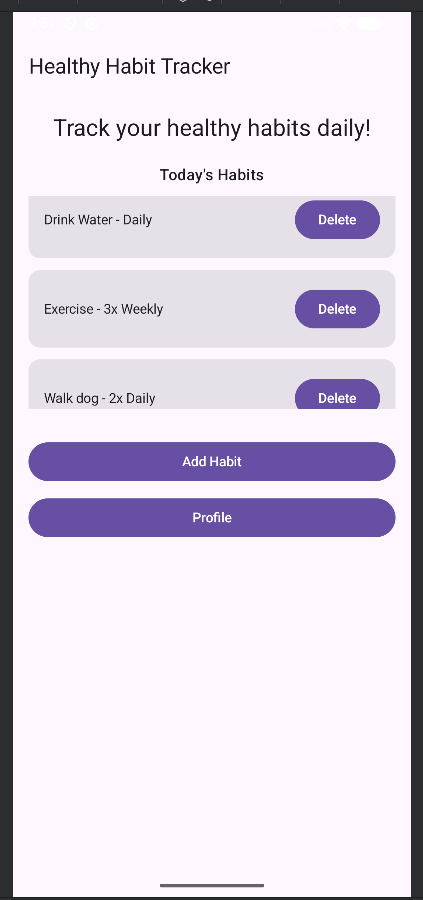
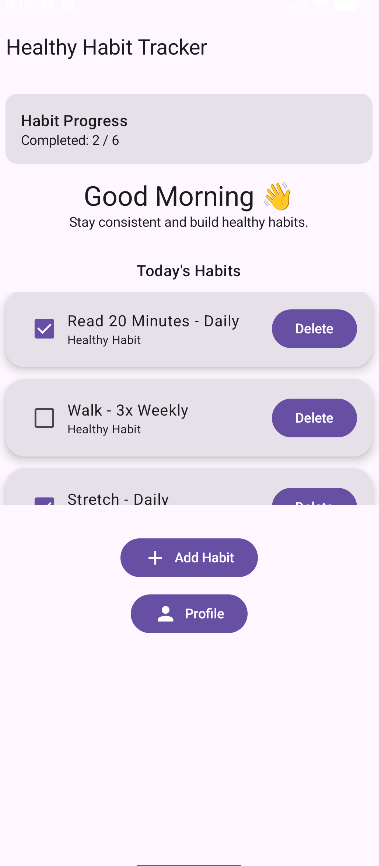
Cleaned up Code and Added featured Android application section to homepage

diff --git a/Projects.html b/Projects.html
@@ -3,12 +3,12 @@
 <head>
   <meta charset="UTF-8">
   <meta name="viewport" content="width=device-width, initial-scale=1.0">
-  <title>Claire Nicole | Gallery</title>
+  <title>Claire Nicole | Projects</title>
   <link rel="stylesheet" href="css/styles.css">
 </head>
 <body>
   <header>
-    <h1>Gallery</h1>
+    <h1>Projects</h1>
     <nav>
       <ul>
         <li><a href="index.html">Home</a></li>
@@ -20,7 +20,7 @@
 
   <main>
     <article>
-      <h2>Welcome to my Gallery!</h2>
+      <h2>Welcome to my Project Gallery!</h2>
       
       <section class="github-section">
 

diff --git a/index.html b/index.html
@@ -19,6 +19,25 @@
   </header>
 
   <main>
+    
+    <section class="featured-project">
+
+    <h2>Featured Project</h2>
+
+    <h3>Healthy Habit Tracker</h3>
+
+    <p>
+        A Kotlin Android application designed to help users
+        build healthy routines through habit tracking,
+        progress monitoring, and personalized goals.
+    </p>
+
+    <a href="Projects.html" class="hero-button">
+        View Project Details
+    </a>
+
+</section>
+
     <section class="hero">
 
     <h2>Software Development Portfolio</h2>

diff --git a/css/styles.css b/css/styles.css
@@ -205,3 +205,26 @@ aside {
     display: block;
     margin: 20px auto;
 }
+.resume {
+    background-color: white;
+    padding: 20px;
+    margin: 20px;
+    border-radius: 10px;
+}
+
+.resume-button {
+    display: inline-block;
+    padding: 10px 20px;
+    background-color: #388E3C;
+    color: white;
+    text-decoration: none;
+    border-radius: 5px;
+}
+.featured-project {
+    background: white;
+    padding: 25px;
+    margin: 20px;
+    border-radius: 12px;
+
+    box-shadow: 0px 2px 8px rgba(0,0,0,0.15);
+}

diff --git a/about.html b/about.html
@@ -85,6 +85,19 @@
   </main>
 
   <aside>
+    <section class="resume">
+
+    <h2>Resume</h2>
+
+    <p>
+        Download my current resume below.
+    </p>
+
+    <a href="#" class="resume-button">
+        Download Resume
+    </a>
+
+</section>
 <h3>Socials</h3>
     <p>Contact me in the About page</p>
     <p>Or find me on social media @chromaminx</p>
